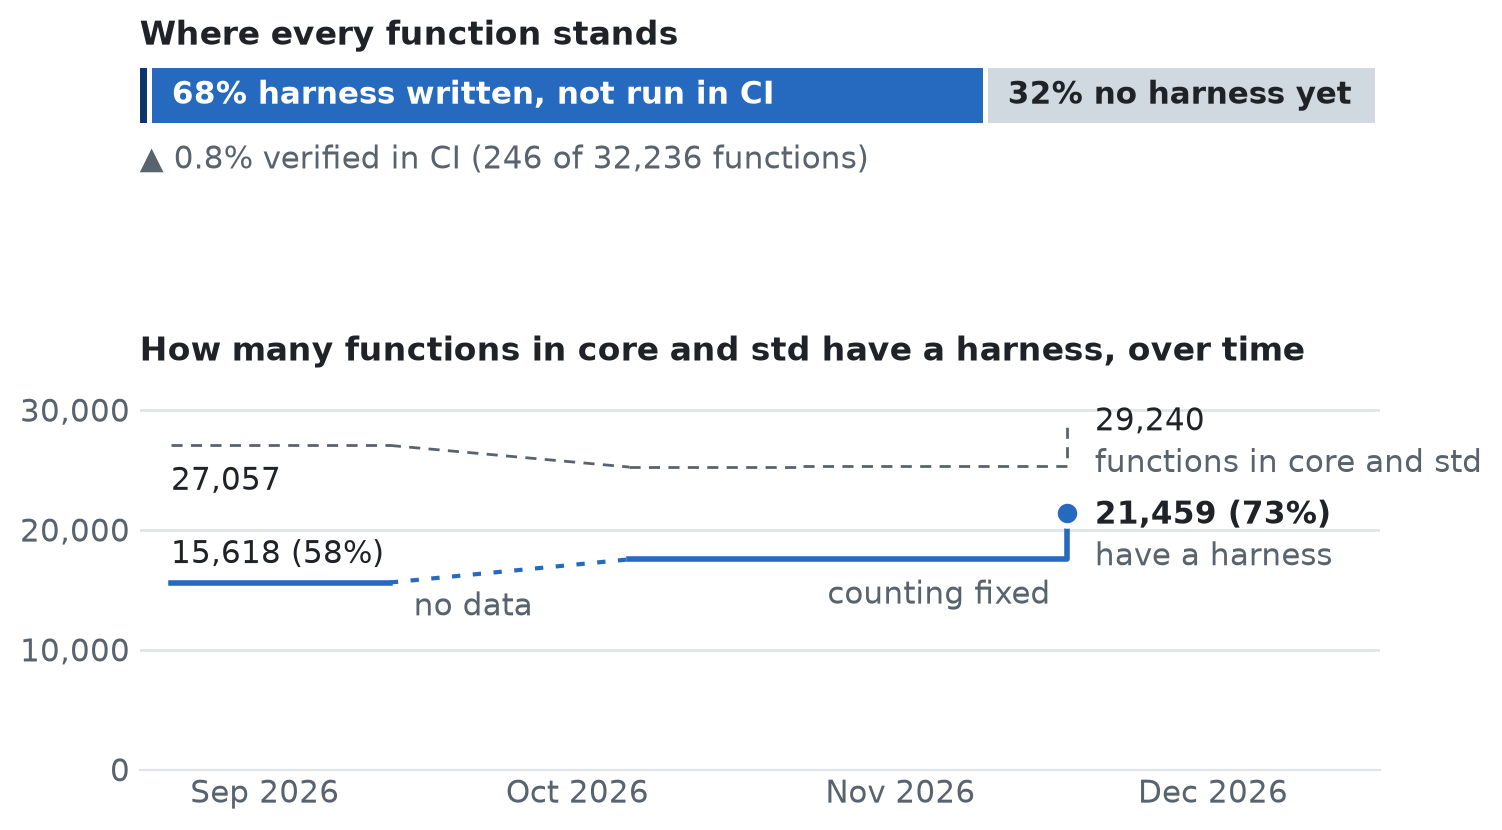
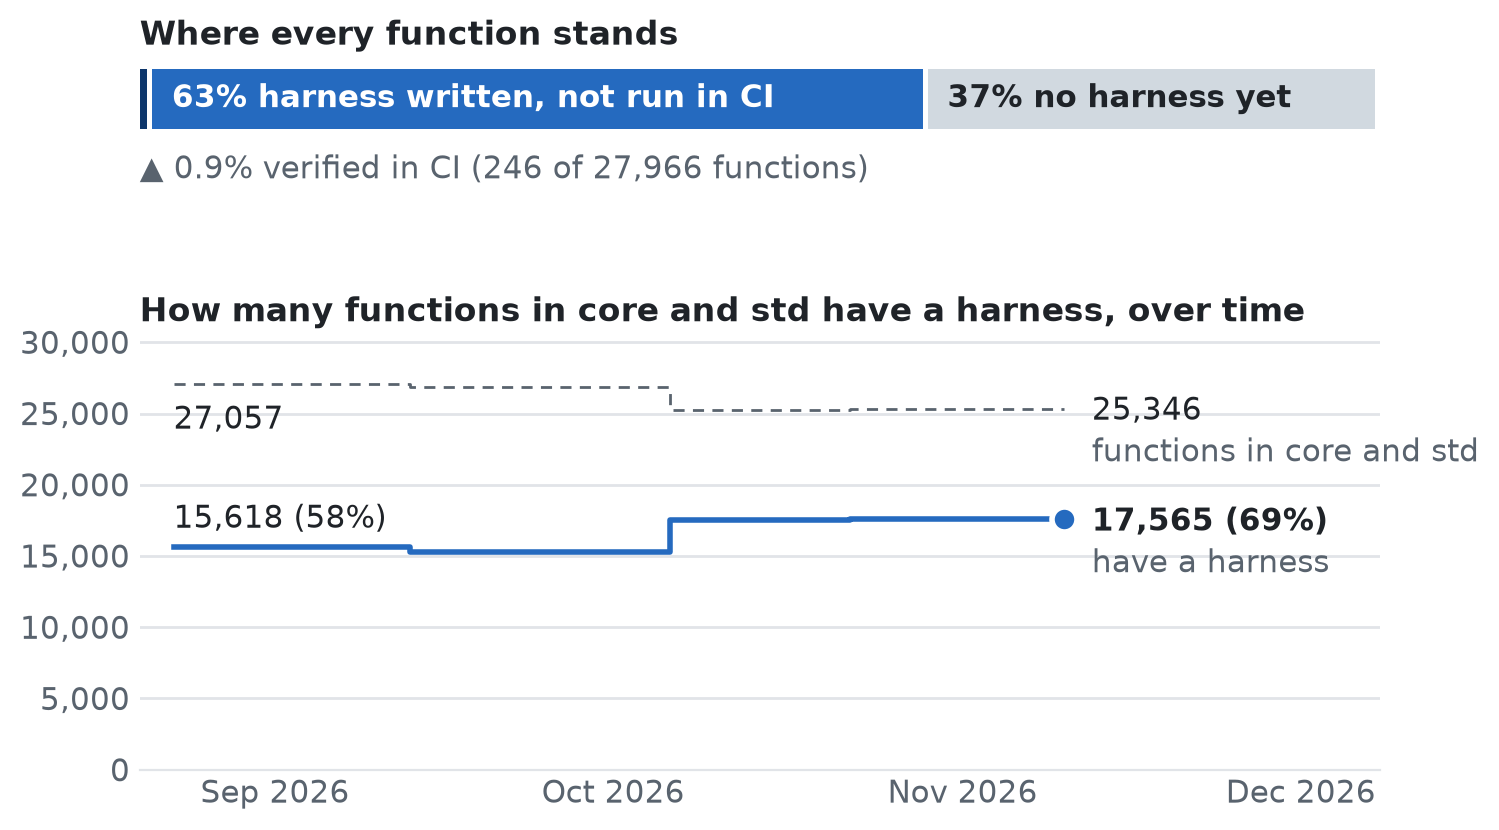
Count as the analyzer did before; headline number and chart without gaps

diff --git a/scripts/autoharness_analyzer/src/make_tables.rs b/scripts/autoharness_analyzer/src/make_tables.rs
@@ -19,9 +19,6 @@ fn chosen_overview_table(
     let mut safe_count = 0;
     let mut safe_abstractions_count = 0;
     let mut unsafe_count = 0;
-    // Functions with a harness that the scanner lists under another name, e.g. a generic
-    // function, whose harness is named after the instantiation (`foo::<i32>`). They still count.
-    let mut unclassified_count = 0;
 
     for fn_name in &autoharness_md.chosen {
         if let Some(record) = fn_to_row_data.get(fn_name) {
@@ -39,7 +36,6 @@ fn chosen_overview_table(
                 "[WARNING] Function {} is in in autoharness metadata but absent in scanner tool output",
                 fn_name
             );
-            unclassified_count += 1;
         }
     }
 
@@ -53,13 +49,8 @@ fn chosen_overview_table(
             ],
             vec!["Unsafe Functions".into(), unsafe_count.to_string()],
             vec![
-                "Safety not classified".into(),
-                unclassified_count.to_string(),
-            ],
-            vec![
                 "Total".into(),
-                (safe_count + safe_abstractions_count + unsafe_count + unclassified_count)
-                    .to_string(),
+                (safe_count + safe_abstractions_count + unsafe_count).to_string(),
             ],
         ],
     )?)
@@ -302,8 +293,7 @@ pub fn compute_metrics(
 }
 
 /// The functions the tables count, one by one, for scripts that compare two runs or list what
-/// is left to do. `chosen` pairs each function that got a harness with its safety class,
-/// null if the scanner did not report it.
+/// is left to do. `chosen` pairs each function that got a harness with its safety class.
 /// `skipped` maps each other function to the reason (spelled as in the tables), its safety
 /// class if the scanner reported it, and the argument types the reason names.
 fn json_data(
@@ -320,11 +310,11 @@ fn json_data(
             "safe"
         })
     };
-    // Like the overview table, keep functions the scanner did not report; their safety is null.
-    let chosen: Vec<(&str, Option<&str>)> = autoharness_md
+    // Like the overview table, leave out functions the scanner did not report.
+    let chosen: Vec<(&str, &str)> = autoharness_md
         .chosen
         .iter()
-        .map(|fn_name| (fn_name.as_str(), safety(fn_name)))
+        .filter_map(|fn_name| Some((fn_name.as_str(), safety(fn_name)?)))
         .collect();
     let skipped: BTreeMap<&str, serde_json::Value> = autoharness_md
         .skipped
@@ -363,16 +353,10 @@ mod tests {
             (name.to_string(), row)
         };
         let fn_to_row_data = HashMap::from([row("f", false), row("g", true), row("k", true)]);
-        // `not_scanned` has a harness, so the table counts it too.
-        let table = chosen_overview_table(&autoharness_md, &fn_to_row_data)
-            .unwrap()
-            .to_string();
-        let total = table.lines().find(|l| l.contains("Total")).unwrap();
-        assert!(total.contains(" 3 "), "{total}");
         assert_eq!(
             json_data(&autoharness_md, &fn_to_row_data),
             serde_json::json!({
-                "chosen": [["f", "safe"], ["g", "unsafe"], ["not_scanned", null]],
+                "chosen": [["f", "safe"], ["g", "unsafe"]],
                 "skipped": {
                     "h": {
                         "reason": "Missing Arbitrary implementation for argument(s)",

diff --git a/scripts/kani-std-analysis/autoharness_report.py b/scripts/kani-std-analysis/autoharness_report.py
@@ -54,16 +54,31 @@ def steps(coverage, verdicts):
     return sum(counts.values()), counts[GENERATED], verified
 
 
-def status(coverage_dir, verdicts, stamp):
+def status(coverage_dir, verdicts, stamp=None, chart_url=None,
+           chart_updated=None, chart_note=None):
     """Markdown for the status issue."""
     total, written, verified = steps(coverage_summary.read(coverage_dir), verdicts)
+    # The number alone as the headline, so that it is the first thing read.
     lines = [
-        f'# {share(written, total)} of the functions in {CRATE_LIST} have a harness',
+        f'# {share(written, total)}',
+        f'of the functions in {CRATE_LIST} have a harness',
         '',
         'A harness is a test that Kani can prove for every possible input. '
         'Autoharness writes harnesses automatically. This page shows how far '
         'it gets on `main`.',
         '',
+    ]
+    if chart_url:
+        lines += [
+            '![Where every function stands, and functions with a harness '
+            f'over time]({chart_url})',
+            '',
+            '<sub>Updated every week'
+            + (f' · last updated {chart_updated}' if chart_updated else '')
+            + (f'<br>{chart_note}' if chart_note else '') + '</sub>',
+            '',
+        ]
+    lines += [
         '### The numbers today',
         '',
         '| | Functions | Share |',
@@ -76,7 +91,8 @@ def status(coverage_dir, verdicts, stamp):
         '',
     ]
     if stamp:
-        lines += [f'Updated after every merge · last updated {stamp}', '']
+        lines += [f'<sub>Updated after every merge · last updated {stamp}</sub>',
+                  '']
     lines += [
         'Why so few are verified: CI runs only the functions listed in '
         '`kani.yml`.',
@@ -234,11 +250,15 @@ def main():
     parser.add_argument('--stamp', help='date, commit and run of this run')
     parser.add_argument('--base-stamp', help='date and commit of the base run')
     parser.add_argument('--status-url', help='link to the status issue')
+    parser.add_argument('--chart-url', help='address of the history chart')
+    parser.add_argument('--chart-updated', help='date of its last point')
+    parser.add_argument('--chart-note', help='what the chart leaves out')
     args = parser.parse_args()
 
     verdicts = results_summary.read(args.results)
     if args.kind == 'status':
-        print(status(args.coverage, verdicts, args.stamp), end='')
+        print(status(args.coverage, verdicts, args.stamp, args.chart_url,
+                     args.chart_updated, args.chart_note), end='')
         return
     base_verdicts = (results_summary.read(args.base_results)
                      if args.base_results else None)

diff --git a/scripts/kani-std-analysis/test_autoharness_report.py b/scripts/kani-std-analysis/test_autoharness_report.py
@@ -16,10 +16,13 @@ def verdicts(**harnesses):
 
 class StatusTest(unittest.TestCase):
     def test_status(self):
-        text = status(BASE, verdicts(kept='SUCCESSFUL'), 'Nov 10, 2026')
+        text = status(BASE, verdicts(kept='SUCCESSFUL'), 'Nov 10, 2026',
+                      'https://example.com/chart.png', 'Nov 9, 2026')
         # 4 of 8 functions: Kani's own are not counted.
         self.assertTrue(text.startswith(
-            '# 50% of the functions in core, alloc and std have a harness\n'))
+            '# 50%\nof the functions in core, alloc and std have a harness\n'))
+        self.assertIn('over time](https://example.com/chart.png)\n\n<sub>Updated '
+                      'every week · last updated Nov 9, 2026</sub>', text)
         self.assertIn('in core, alloc and std | 8 | 100% |', text)
         self.assertIn('Most have not been run yet | 4 | 50% |', text)
         self.assertIn('Kani proved it | 1 | 12% |', text)

diff --git a/scripts/kani-std-analysis/autoharness_history.py b/scripts/kani-std-analysis/autoharness_history.py
@@ -87,7 +87,7 @@ def plot(history, out):
         'xtick.color': muted, 'ytick.color': muted})
     fig, (bar, line) = plt.subplots(
         2, 1, figsize=(8, 4.6),
-        gridspec_kw={'height_ratios': [1, 3.2], 'hspace': 0.75})
+        gridspec_kw={'height_ratios': [1, 3.2], 'hspace': 0.5})
 
     # Where every function stands today: one bar, three states.
     last = [e for e in history if e['crates']][-1]
